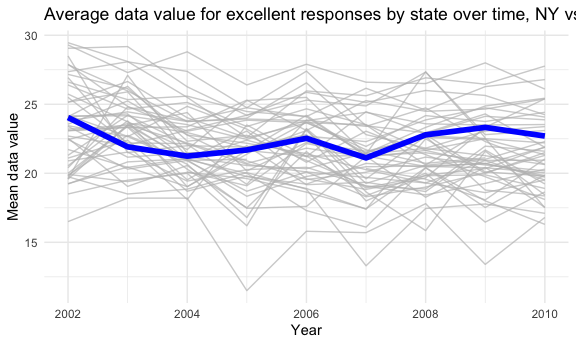
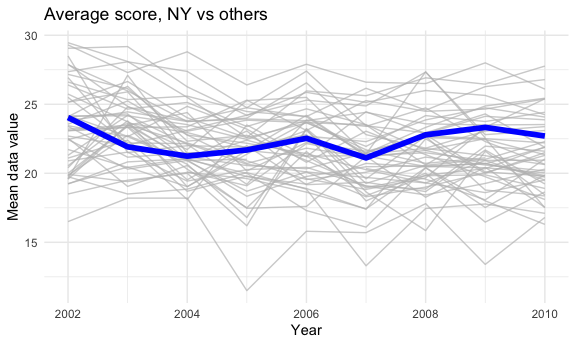
Shortened graph titles

Changed region(s): [[0.1875, 0.0, 1.0, 0.058]]

diff --git a/p8105_hw3_zak2132.md b/p8105_hw3_zak2132.md
@@ -633,7 +633,7 @@ brfss_smart2010 %>%
       geom_line(alpha = 0.5, size=2) + 
       geom_point(alpha = 0.5) + 
       labs(
-            title = "Average data value for excellent responses over time by state",
+            title = "Average score for excellents by state",
             x = "Year",
             y = "Mean data value"
       ) + 
@@ -677,7 +677,7 @@ ggplot() +
   geom_line(data = all_states, aes(x = year, y = mean_data_value, group = state), color = alpha("grey", 0.7)) + 
   geom_line(data = ny_only, aes(x = year, y = mean_data_value, color = state), color = alpha("blue", 1.0), size = 2) + 
       labs(
-            title = "Average data value for excellent responses by state over time, NY vs others",
+            title = "Average score, NY vs others",
             x = "Year",
             y = "Mean data value"
       )
